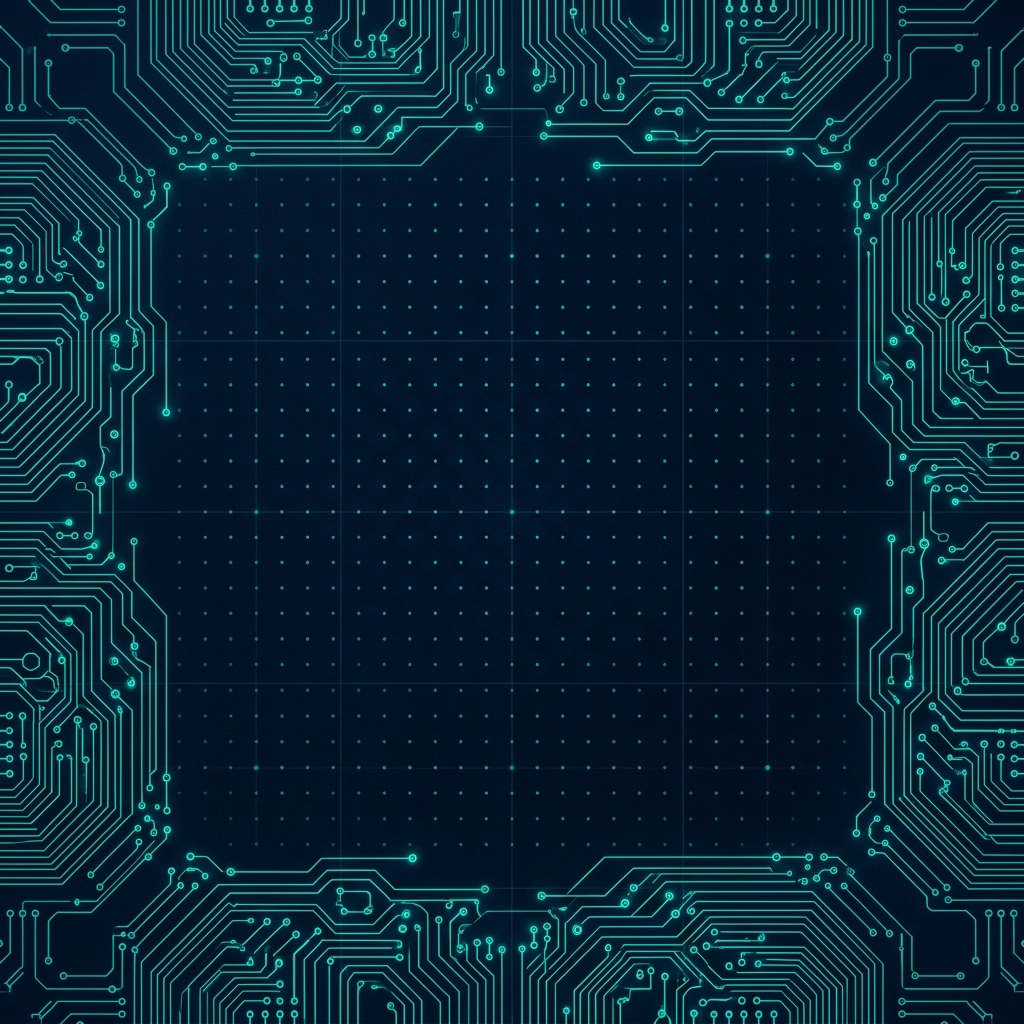
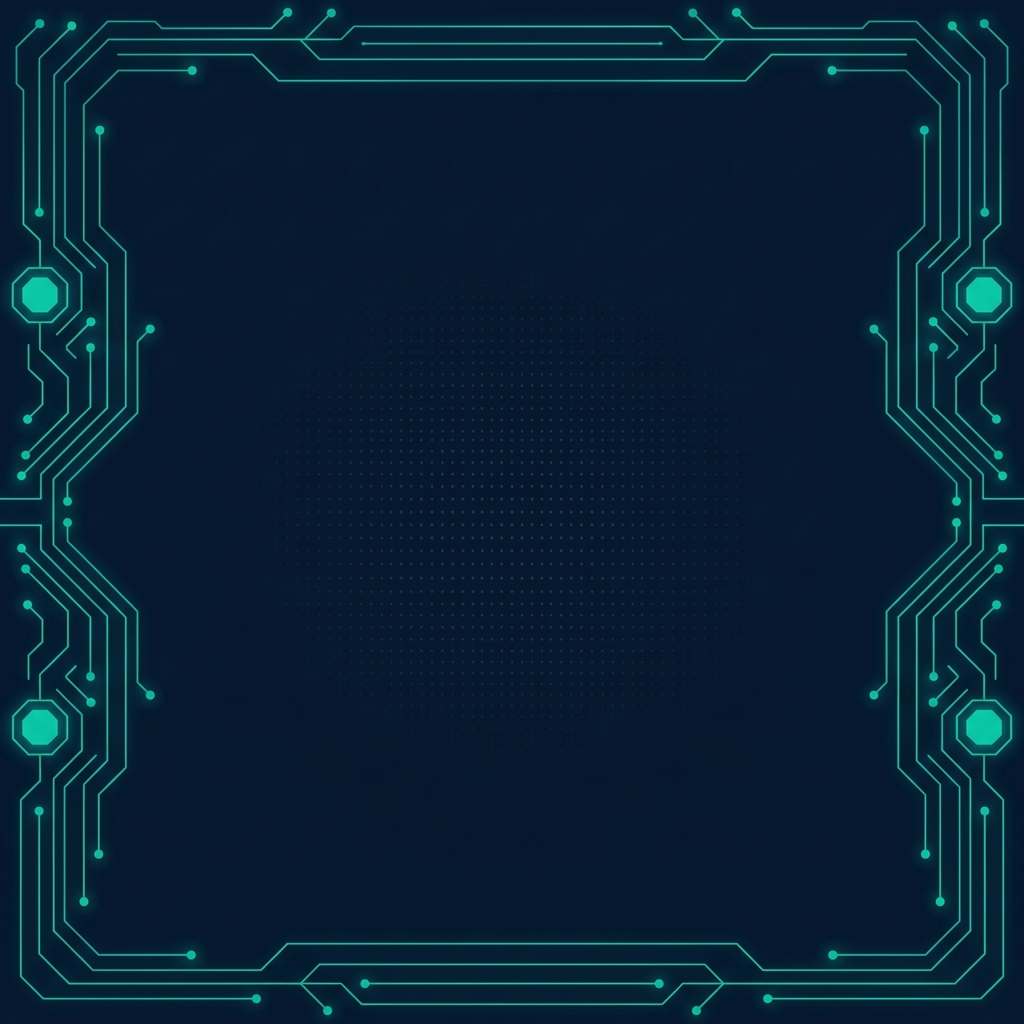
fix: replace dark-bg with proper 1920x1080 circuit board image, restore cover sizing

Changed region(s): [[0.0, 0.0, 1.0, 1.0]]

diff --git a/assets/css/student-dark.css b/assets/css/student-dark.css
@@ -7,7 +7,7 @@ body.lms-dark-mode {
     radial-gradient(circle at 15% 50%, rgba(34, 211, 238, 0.10) 0%, transparent 40%),
     radial-gradient(circle at 85% 30%, rgba(192, 132, 252, 0.10) 0%, transparent 40%),
     url('../images/dark-bg.png') !important;
-  background-size: auto, auto, 100% 100% !important;
+  background-size: auto, auto, cover !important;
   background-position: top left, bottom right, center center !important;
   background-attachment: fixed !important;
   color: #e2e8f0 !important;

diff --git a/assets/css/style.css b/assets/css/style.css
@@ -4917,7 +4917,7 @@ body.lms-dark-mode {
     radial-gradient(at 0% 0%, rgba(30, 77, 77, 0.35) 0px, transparent 50%),
     radial-gradient(at 100% 100%, rgba(0, 201, 167, 0.12) 0px, transparent 50%),
     url('../images/dark-bg.png') !important;
-  background-size: auto, auto, 100% 100% !important;
+  background-size: auto, auto, cover !important;
   background-position: top left, bottom right, center center !important;
   background-attachment: fixed !important;
   color: #f8fafc !important;
